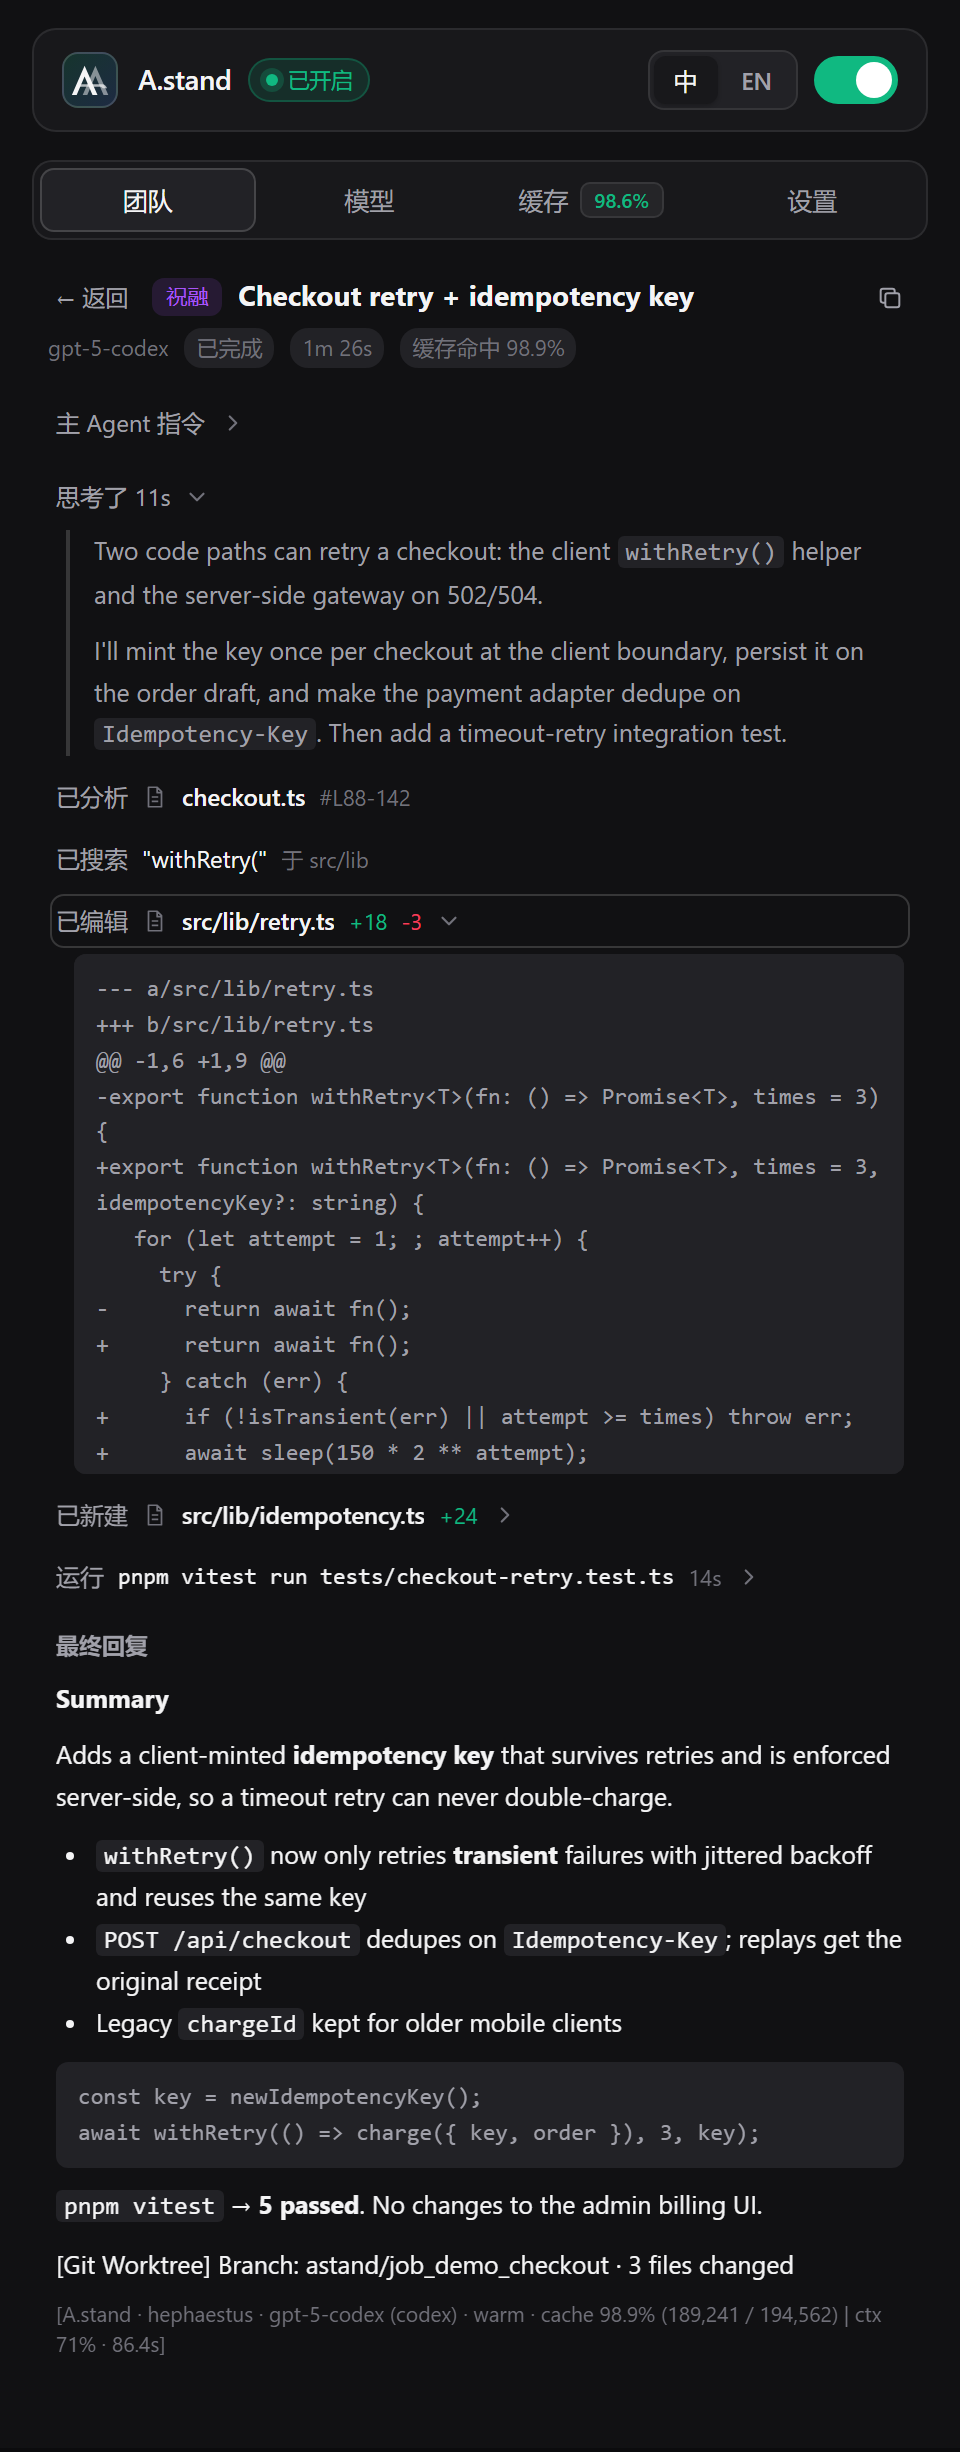
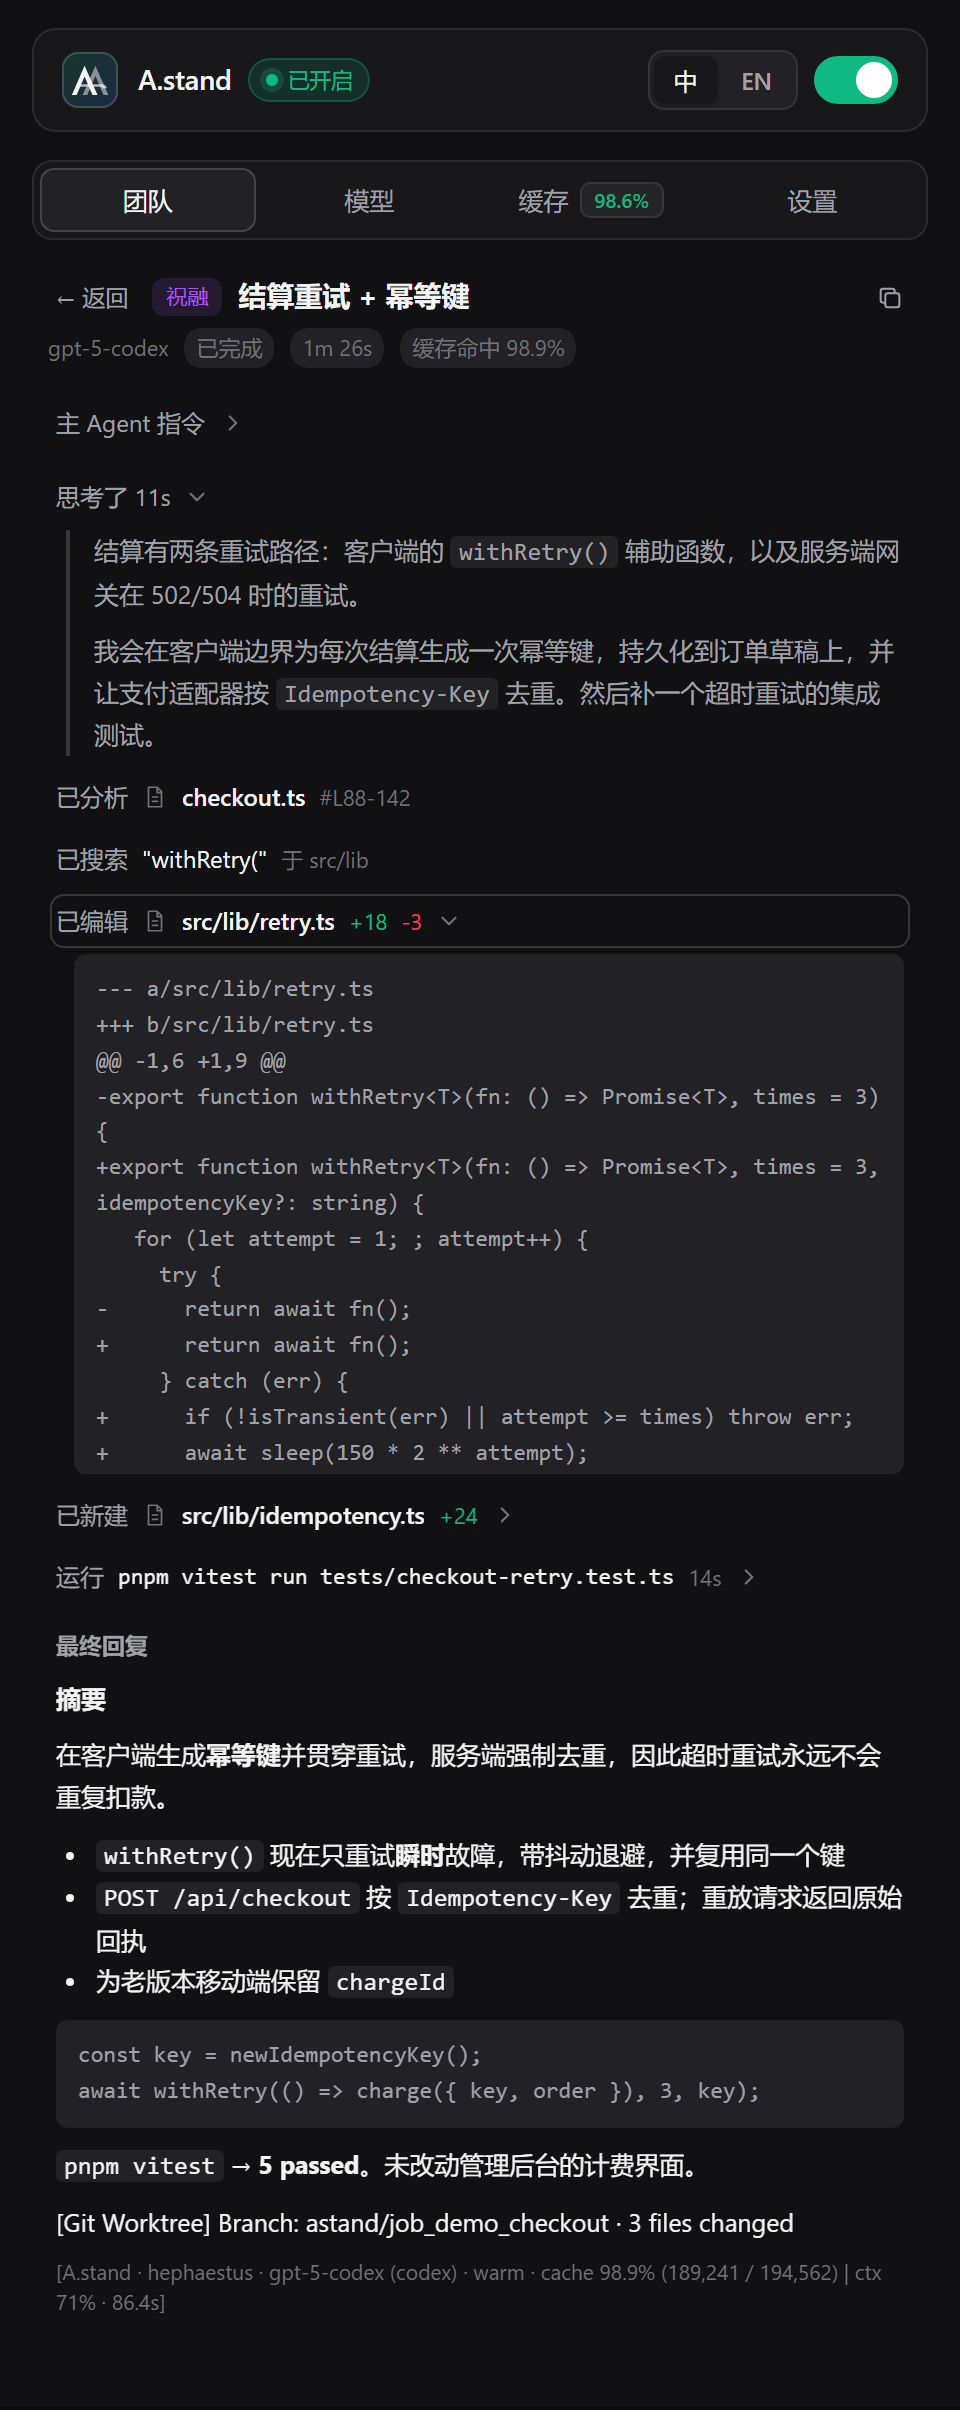
docs(screenshots): add English Retina screenshots for README.md and localize Chinese pair

diff --git a/README.md b/README.md
@@ -29,11 +29,11 @@ A.stand lets your Antigravity Lead Agent stay focused on architecture, planning,
 
 ### Team panel — live subagent timeline & Prompt Cache
 
-![A.stand Team panel: live subagent jobs with the collapsible X-ray timeline and real Prompt Cache hit rates](./docs/screenshots/console-team.png)
+![A.stand Team panel: live subagent jobs with the collapsible X-ray timeline and real Prompt Cache hit rates](./docs/screenshots/console-team-en.png)
 
 ### Cache analytics — cumulative hit rate from real upstream billing counters
 
-![A.stand Cache panel: cumulative Prompt Cache hit rate, input/cached/output token totals and recent turn chart](./docs/screenshots/console-cache.png)
+![A.stand Cache panel: cumulative Prompt Cache hit rate, input/cached/output token totals and recent turn chart](./docs/screenshots/console-cache-en.png)
 
 ---
 
